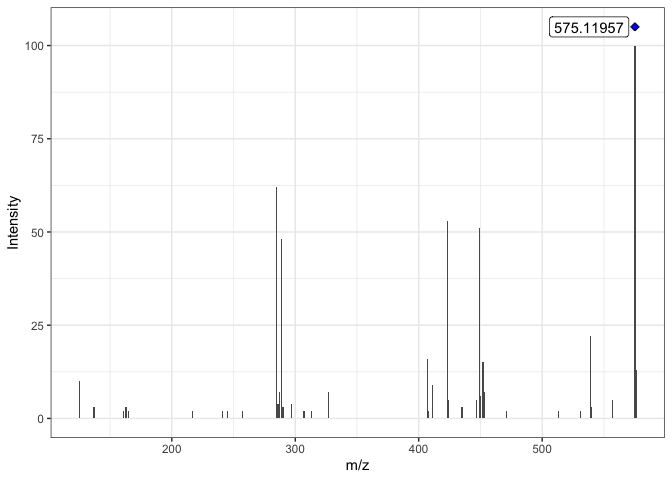
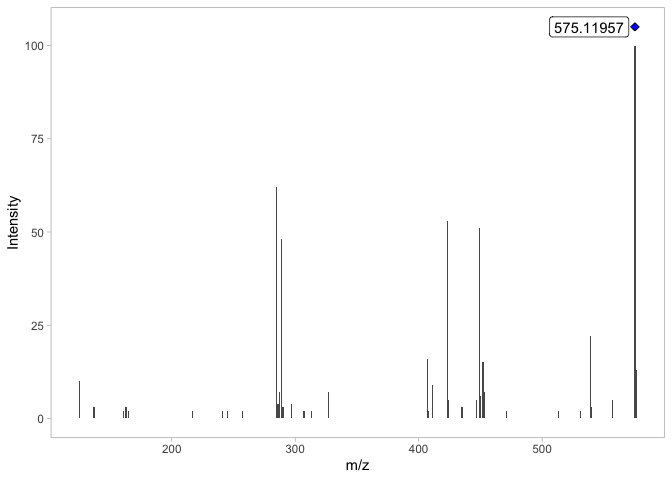
Updating readme

diff --git a/README.md b/README.md
@@ -193,4 +193,4 @@ compare_spectra(ProcA2_detected, ProcA2_PCDL)
     #> 10 576.1221            13                0
     #> 
     #> $plot
-    #> gTree[GRID.gTree.168]
+    #> gTree[GRID.gTree.160]
